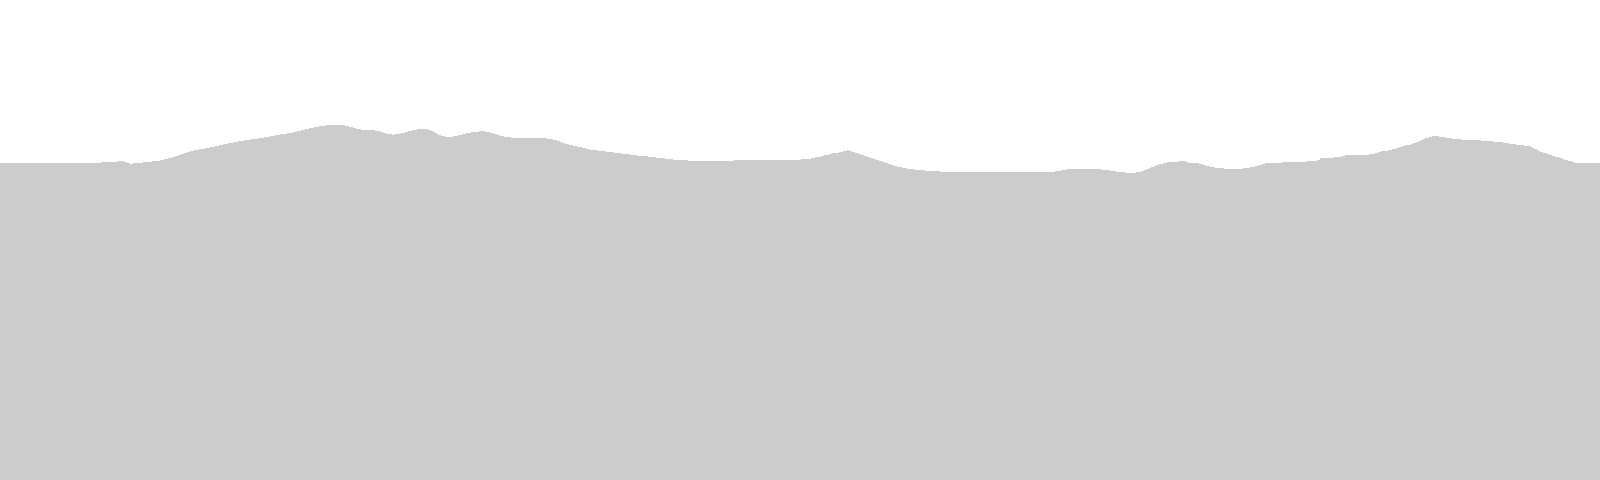
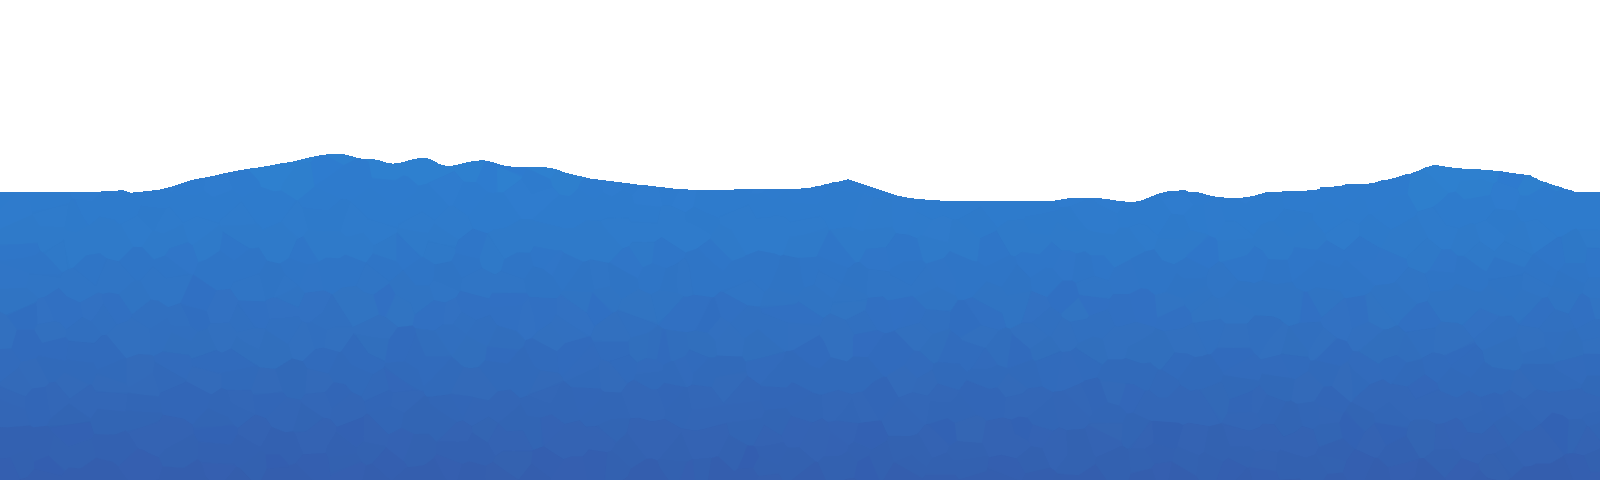
Reverse parallax

diff --git a/GCA2/Screens/GameplayScreen.cs b/GCA2/Screens/GameplayScreen.cs
@@ -50,6 +50,8 @@ namespace GCA2
         // parallax mngr
         ParallaxManager parallaxManager;
 
+        SpriteManager spriteManager;
+
         WorldObject world;
 
         Boolean hasStarted = false;
@@ -95,11 +97,11 @@ namespace GCA2
                 if (content == null)
                     content = new ContentManager(ScreenManager.Game.Services, "Content");
 
-                gameFont = content.Load<SpriteFont>("gamefont");
-                touchTexture = content.Load<Texture2D>("sprites/touch");
-                tileGrass = content.Load<Texture2D>("tiles/WorldLineTexture");
-                happyCloud1 = content.Load<Texture2D>("sprites/happyCloud1");
-                background = content.Load<Texture2D>("bg/background");
+                //gameFont = content.Load<SpriteFont>("gamefont");
+                //touchTexture = content.Load<Texture2D>("sprites/touch");
+                //tileGrass = content.Load<Texture2D>("tiles/WorldLineTexture");
+                //happyCloud1 = content.Load<Texture2D>("sprites/happyCloud1");
+                //background = content.Load<Texture2D>("bg/background");
 
                 world = new WorldObject(ScreenManager.Game, ScreenManager.SpriteBatch);
 
@@ -134,19 +136,42 @@ namespace GCA2
 
         private void InitParallex()
         {
+            spriteManager = new SpriteManager(ScreenManager.Game, touchPosition, isPressed, world);
+
             parallaxManager = new ParallaxManager(ScreenManager.Game);
             parallaxManager.DrawOrder = 0;
 
             // repeating clouds
-            Texture2D layerTexture = content.Load<Texture2D>("sprites/happycloud1");
-            Rectangle rect = new Rectangle(0, 0, layerTexture.Width, layerTexture.Height);
-            parallaxManager.AddLayer(0, 50.0f, true, layerTexture, new Vector2(800 + layerTexture.Width, 10), rect);
+            Texture2D layerTexture = content.Load<Texture2D>("bg/parallax_layer");
+            Rectangle  rect = new Rectangle(0, 0, layerTexture.Width, layerTexture.Height);
+            parallaxManager.AddLayer(0, 150.0f, true, layerTexture, new Vector2(layerTexture.Width, 10), rect);
 
-            layerTexture = content.Load<Texture2D>("sprites/happycloud1");
+            //layerTexture = content.Load<Texture2D>("clouds/clud1");
+            //rect = new Rectangle(0, 0, layerTexture.Width, layerTexture.Height);
+            //parallaxManager.AddLayer(0, 90.0f, true, layerTexture, new Vector2(layerTexture.Width, 10), rect);
+
+            //layerTexture = content.Load<Texture2D>("clouds/clud2");
+            //rect = new Rectangle(0, 0, layerTexture.Width, layerTexture.Height);
+            //parallaxManager.AddLayer(0, 100.0f, true, layerTexture, new Vector2(layerTexture.Width, 15), rect);
+
+            //layerTexture = content.Load<Texture2D>("clouds/clud3");
+            //rect = new Rectangle(0, 0, layerTexture.Width, layerTexture.Height);
+            //parallaxManager.AddLayer(0, 100.0f, true, layerTexture, new Vector2(layerTexture.Width, 15), rect);
+
+            //layerTexture = content.Load<Texture2D>("clouds/clud4");
+            //rect = new Rectangle(0, 0, layerTexture.Width, layerTexture.Height);
+            //parallaxManager.AddLayer(0, 100.0f, true, layerTexture, new Vector2(layerTexture.Width, 15), rect);
+
+            layerTexture = content.Load<Texture2D>("bg/background_gradient");
             rect = new Rectangle(0, 0, layerTexture.Width, layerTexture.Height);
-            parallaxManager.AddLayer(0, 10.0f, true, layerTexture, new Vector2(800 + layerTexture.Width, 15), rect);
+            parallaxManager.AddLayer(0, 0.0f, true, layerTexture, new Vector2(layerTexture.Width, 0), rect);
+
+
+
+
 
             ScreenManager.Game.Components.Add(parallaxManager);
+            ScreenManager.Game.Components.Add(spriteManager);
         }
 
         public override void Deactivate()
@@ -387,35 +412,6 @@ namespace GCA2
         /// </summary>
         public override void Draw(GameTime gameTime)
         {
-
-
-            // Our player and enemy are both actually just text strings.
-            SpriteBatch spriteBatch = ScreenManager.SpriteBatch;
-
-            spriteBatch.Begin();
-            spriteBatch.Draw(background, new Vector2(0, 0), Color.White);
-            //spriteBatch.Draw(happyCloud1, new Vector2(10, 10), new Rectangle(-1, 0, happyCloud1.Width, happyCloud1.Height), Color.White);
-
-
-            if (isPressed)
-                spriteBatch.Draw(touchTexture, new Vector2(touchPosition.X - 40, touchPosition.Y - 40), Color.White);
-
-            for (int i = 0; i < world.getLineQueue().Count; i++)
-            {
-                spriteBatch.Draw(tileGrass, new Vector2(i, 480 - world.getLineQueue()[i].Height), Color.White);
-            }
-
-            spriteBatch.DrawString(gameFont, touchPosition.X + " " + touchPosition.Y + " " + newLineY + " " + pressedLastY, new Vector2(0, 0), Color.White);
-            spriteBatch.DrawString(gameFont,
-                 "Tx: " + touchPosition.X
-               + "\nTy: " + touchPosition.Y
-               + "\nNy: " + newLineY
-               + "\nPx: " + pressedLastX
-               + "\nPy: " + pressedLastY,
-               new Vector2(0, 0), Color.White);
-            spriteBatch.DrawString(gameFont, isPressed + "", new Vector2(0, 200), Color.White);
-            spriteBatch.End();
-
             // If the game is transitioning on or off, fade it out to black.
             if (TransitionPosition > 0 || pauseAlpha > 0)
             {

diff --git a/GCA2/PlayerObject.cs b/GCA2/PlayerObject.cs
@@ -100,7 +100,17 @@ namespace GCA2
                 {
                     airtime++;
                     // In the air
-                    Position.Y += (airtime / (4 * gameTime.ElapsedGameTime.Milliseconds));
+
+                    float dropSize = Math.Abs(Position.Y + Texture.Height - (TouchPanel.DisplayHeight - World.getLine((int)Position.X).Height));
+                    int yDiff = 3;
+
+                    if (dropSize > 45)
+                    {
+                        yDiff = (airtime / (6 * gameTime.ElapsedGameTime.Milliseconds));
+                    }
+
+                    Position.Y += yDiff;
+
                     int diff2 = World.getPositionDifference();
 
                     while (diff2 > 0)

diff --git a/GCA2/ParallaxManager.cs b/GCA2/ParallaxManager.cs
@@ -164,7 +164,7 @@ namespace GCA2
             {
                 if (layer.isSeamless)
                 {
-                    layer.position.X -= layer.scrollSpeed * timeDelta;
+                    layer.position.X += layer.scrollSpeed * timeDelta;
                     layer.position.X = layer.position.X % layer.layerTexture.Width;
                 }
                 else
